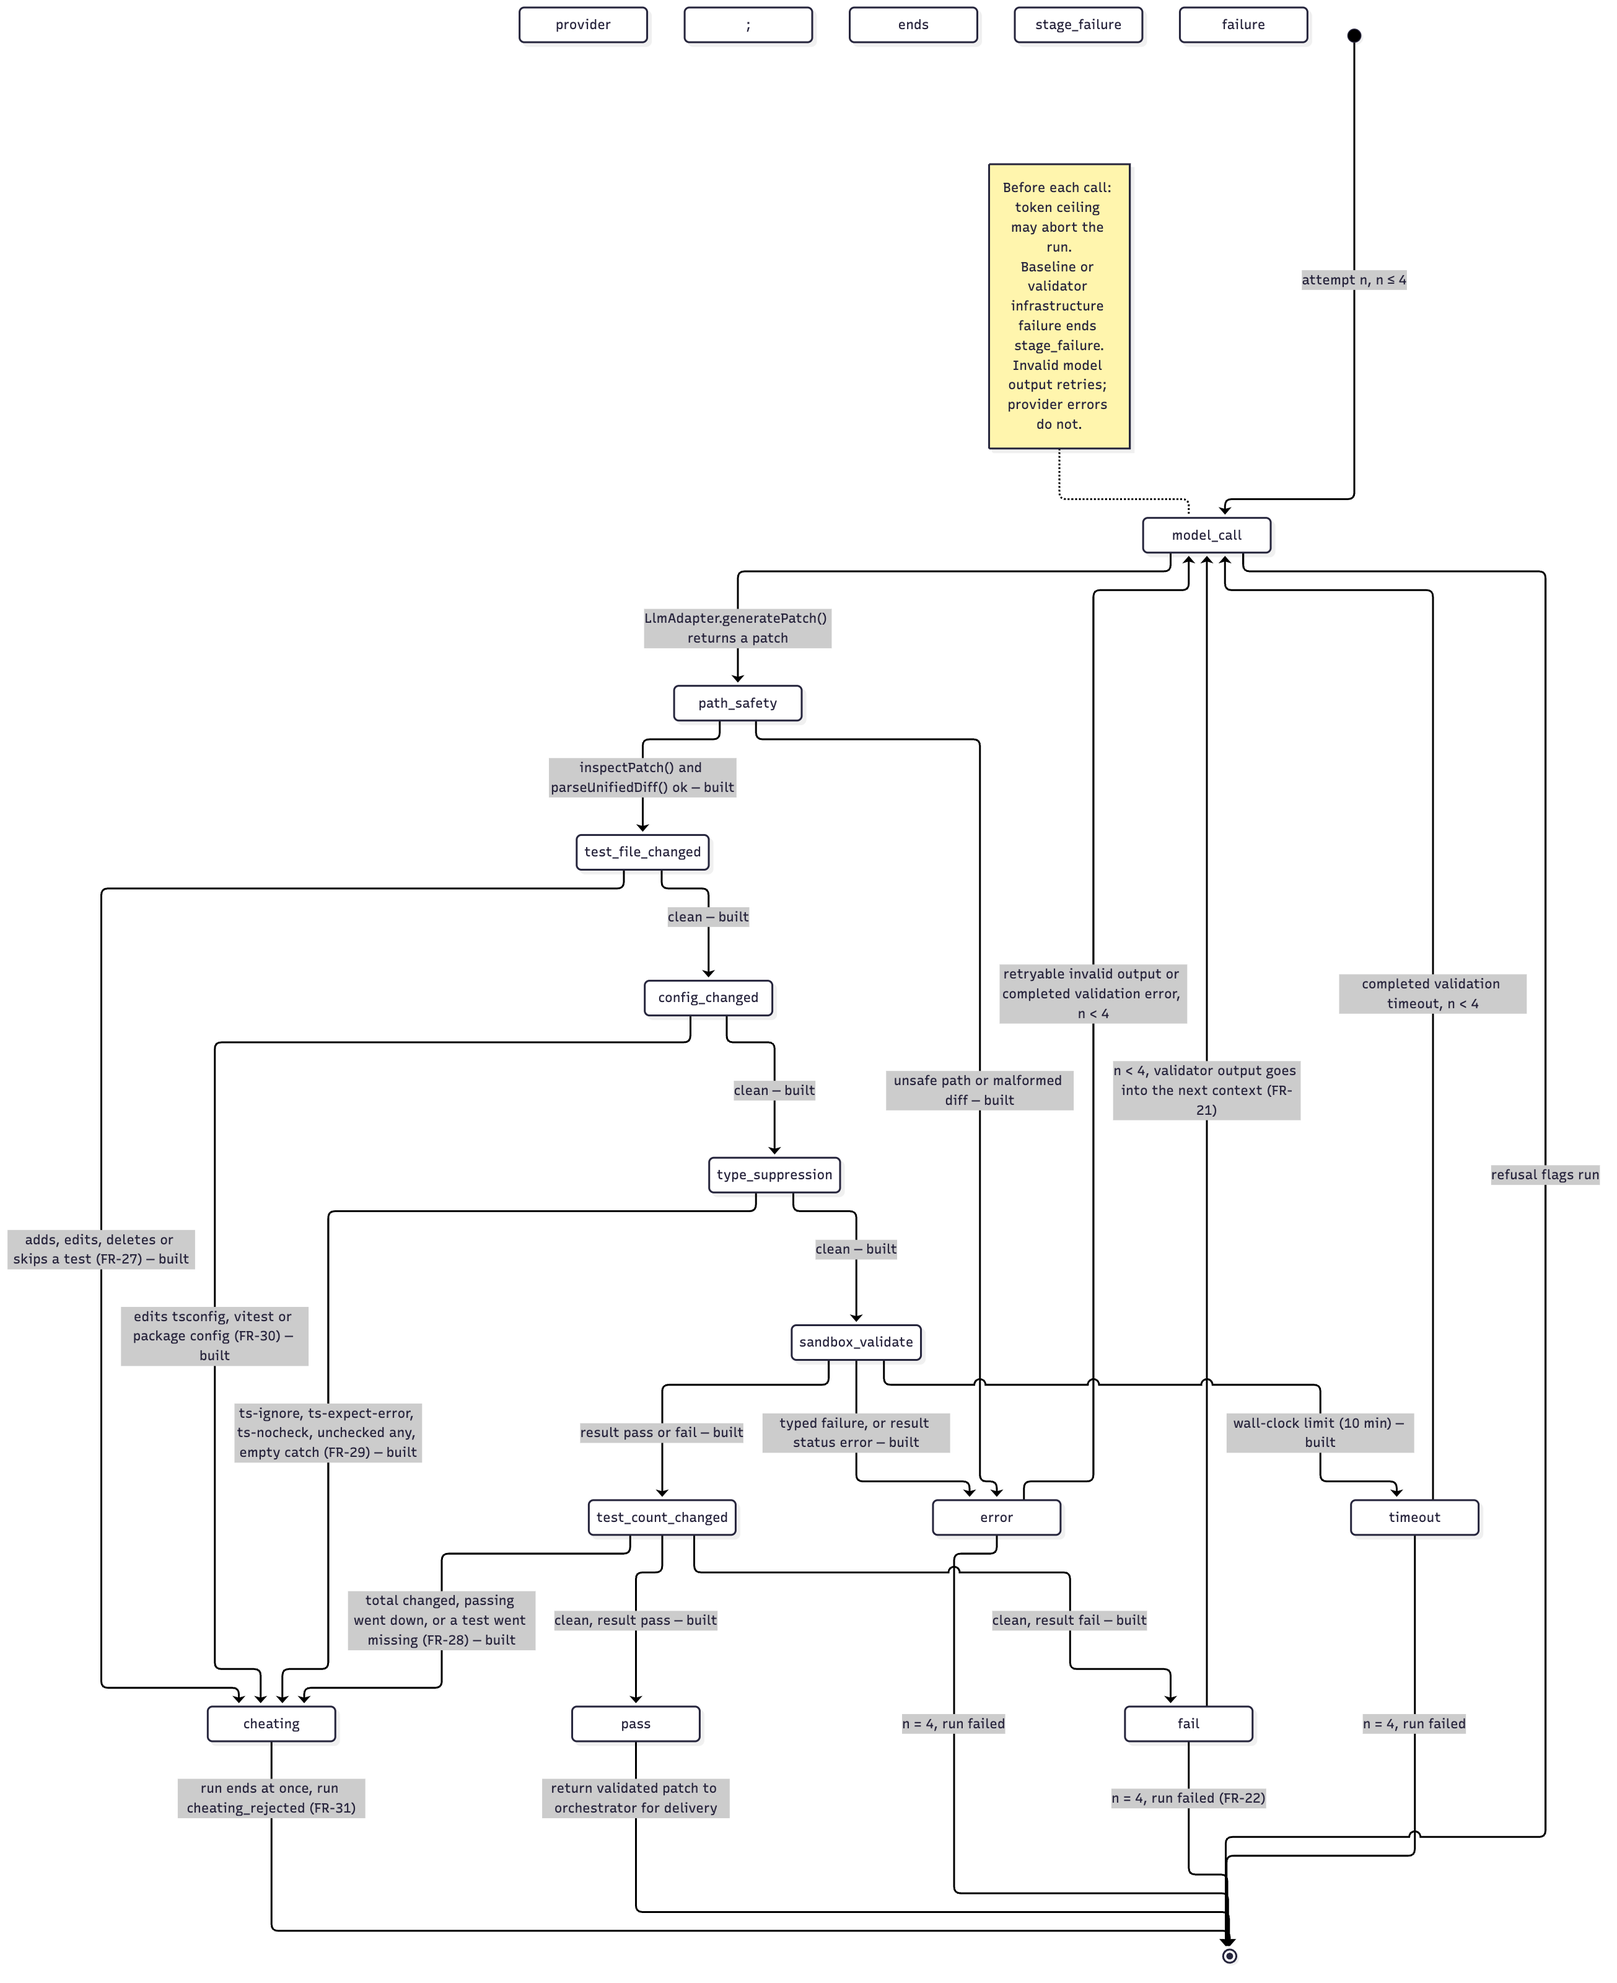
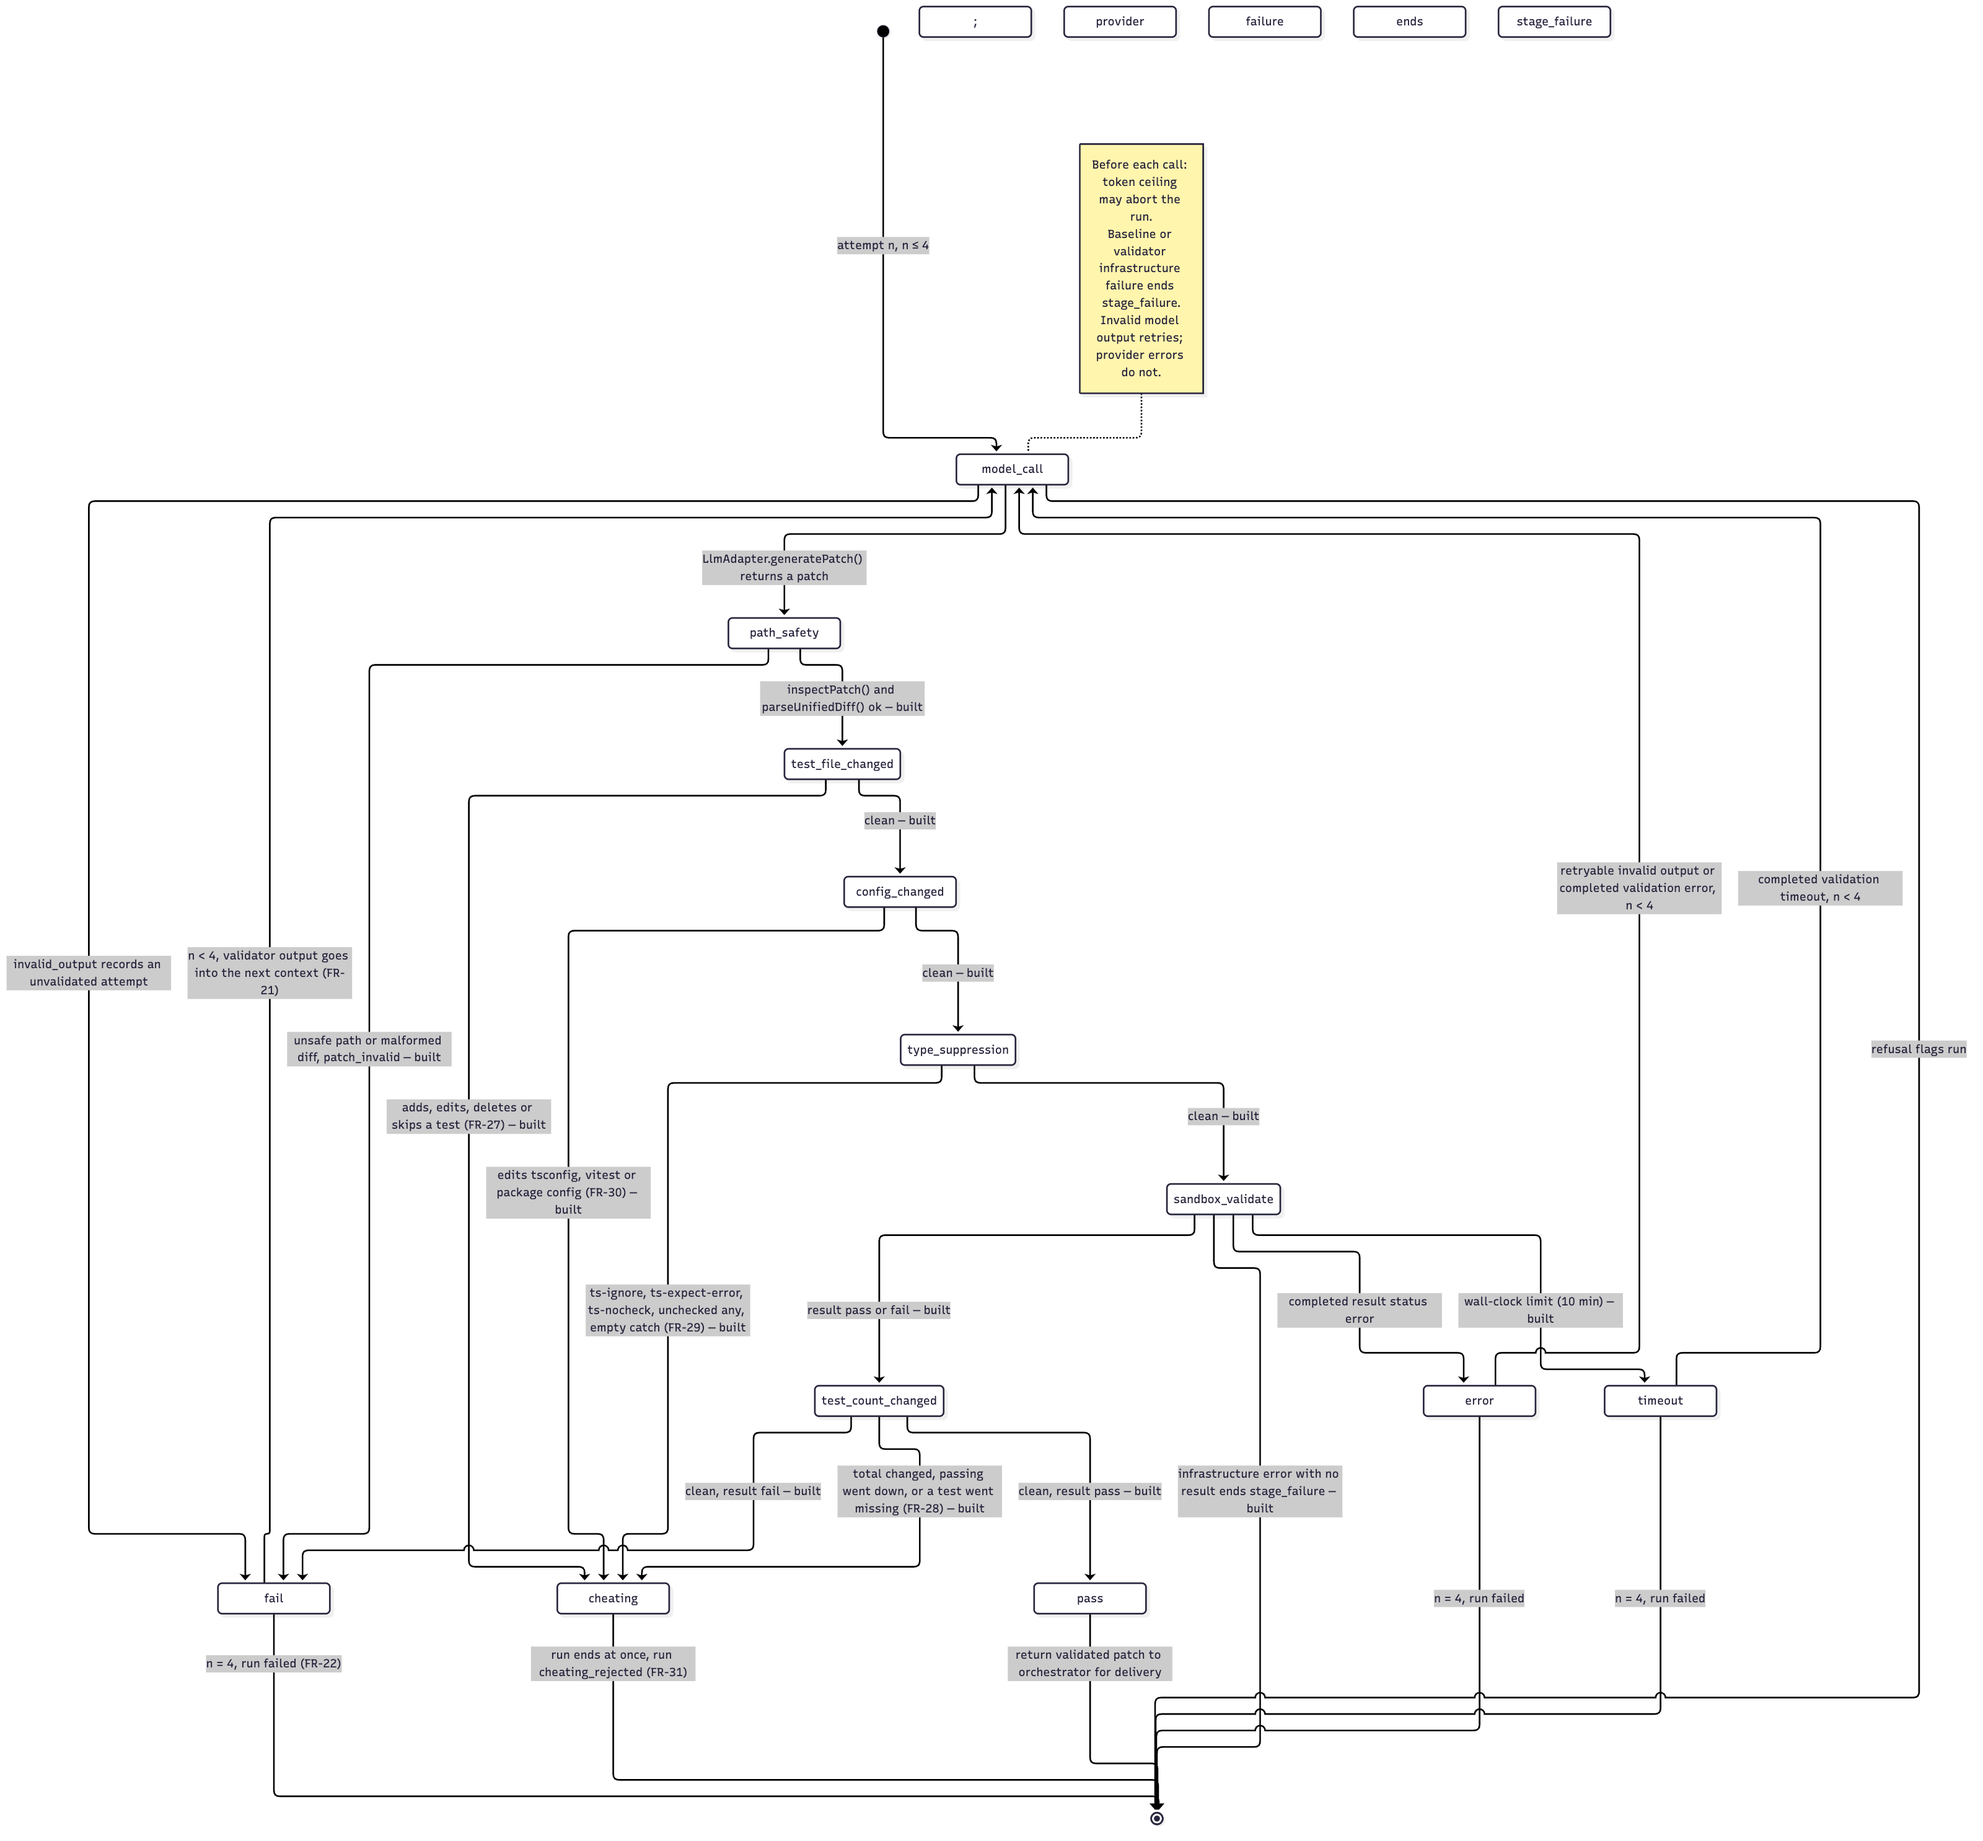
docs(deliverables): document spec retries and single-shot lifecycle

diff --git a/docs/diagrams/statecharts.md b/docs/diagrams/statecharts.md
@@ -37,7 +37,8 @@ stateDiagram-v2
   locate_outcome --> needs_review : outcome needs_review
   locate_outcome --> repair_gate : outcome affected
   repair_gate --> flagged : not breaking, or mapping unconfirmed (FR-18)
-  repair_gate --> delivery : attempt outcome pass
+  repair_gate --> delivery : full mode attempt passes
+  repair_gate --> repaired : B2 single-shot passes, delivery skipped
   delivery --> repaired : branch and PR delivered
   delivery --> stage_failure : delivery failure, failure_stage deliver
   repair_gate --> failed : 4 attempts without pass (FR-22)
@@ -89,6 +90,9 @@ one outcome. `ingest()` in [`apps/server/src/pipeline/ingest.ts`](../../apps/ser
 retrieves and parses the spec, then `decideCheckOutcome()` in
 [`packages/core/src/ingest/spec.ts`](../../packages/core/src/ingest/spec.ts) picks the outcome.
 All checks for one API run one at a time through `CheckQueue`, and `ingest()` locks the API row.
+The flow combines ingestion and orchestration: detector/classifier failures append a separate
+failed check rather than mutating the original ingestion row. A previously stored version that
+differs from the baseline is classified again, so a failed check remains retryable.
 
 ![Spec check](png/statechart-spec-check.png)
 
@@ -105,12 +109,15 @@ stateDiagram-v2
   compare_hash --> changed : new hash, a new spec_versions row, baseline NOT moved — built
   failed --> [*] : baseline unchanged, a later check may retry (FR-11) — built
   baseline_established --> [*]
-  no_change --> [*]
+  no_change --> [*] : version equals baseline
+  no_change --> classified : stored version differs from baseline, retry detectAndClassify succeeds
+  no_change --> classification_failed : retry detectAndClassify fails
   changed --> classified : detectAndClassify succeeds
   classified --> baseline_advanced : advanceBaseline succeeds
   baseline_advanced --> [*]
   changed --> classification_failed : detector or classifier failure
-  classification_failed --> [*] : preserve old baseline; retry on a later check
+  classification_failed --> failed : append failed check with failure_stage; preserve baseline
+  classified --> failed : advancing baseline fails
 ```
 
 | State                  | Kind             | Where it lives in the code                                                                                                                                                        |
@@ -124,7 +131,7 @@ stateDiagram-v2
 
 | `classified` | activity | `detectAndClassify` in `apps/server/src/pipeline/classify.ts` |
 | `baseline_advanced` | activity | `advanceBaseline` in `apps/server/src/pipeline/orchestrator.ts` |
-| `classification_failed` | activity | stage failure in `apps/server/src/pipeline/orchestrator.ts`; the ingest check still records changed |
+| `classification_failed` | activity | `failCheck` in `apps/server/src/pipeline/orchestrator.ts`; appends a failed check and retains the earlier ingest row |
 
 ---
 
@@ -150,8 +157,9 @@ before and after the patch, so it needs the validation result.
 stateDiagram-v2
   direction TB
   [*] --> model_call : attempt n, n ≤ 4
+  model_call --> fail : invalid_output records an unvalidated attempt
   model_call --> path_safety : LlmAdapter.generatePatch() returns a patch
-  path_safety --> error : unsafe path or malformed diff — built
+  path_safety --> fail : unsafe path or malformed diff, patch_invalid — built
   path_safety --> test_file_changed : inspectPatch() and parseUnifiedDiff() ok — built
   test_file_changed --> cheating : adds, edits, deletes or skips a test (FR-27) — built
   test_file_changed --> config_changed : clean — built
@@ -159,7 +167,8 @@ stateDiagram-v2
   config_changed --> type_suppression : clean — built
   type_suppression --> cheating : ts-ignore, ts-expect-error, ts-nocheck, unchecked any, empty catch (FR-29) — built
   type_suppression --> sandbox_validate : clean — built
-  sandbox_validate --> error : typed failure, or result status error — built
+  sandbox_validate --> error : completed result status error
+  sandbox_validate --> [*] : infrastructure error with no result ends stage_failure — built
   sandbox_validate --> timeout : wall-clock limit (10 min) — built
   sandbox_validate --> test_count_changed : result pass or fail — built
   test_count_changed --> cheating : total changed, passing went down, or a test went missing (FR-28) — built

diff --git a/docs/architecture.md b/docs/architecture.md
@@ -311,9 +311,9 @@ guard needs real test results, so it can only come last.
 5. `FakeLlmAdapter` returns scripted results and records each context, so tests and the
    evaluation can run without a network or a model (NFR-08).
 
-**Why:** the model sees only what it needs, nothing secret, and nothing it could mistake for an
-instruction (NFR-04, AT-10). One adapter file means the provider can be swapped by editing one
-file (C-06).
+**Why:** bounded context, credential filtering and explicit untrusted-data delimiters reduce
+exposure (NFR-04, AT-10). These controls do not prove that a live model can never follow a
+planted instruction. One adapter boundary keeps provider access isolated (C-06).
 
 ---
 
